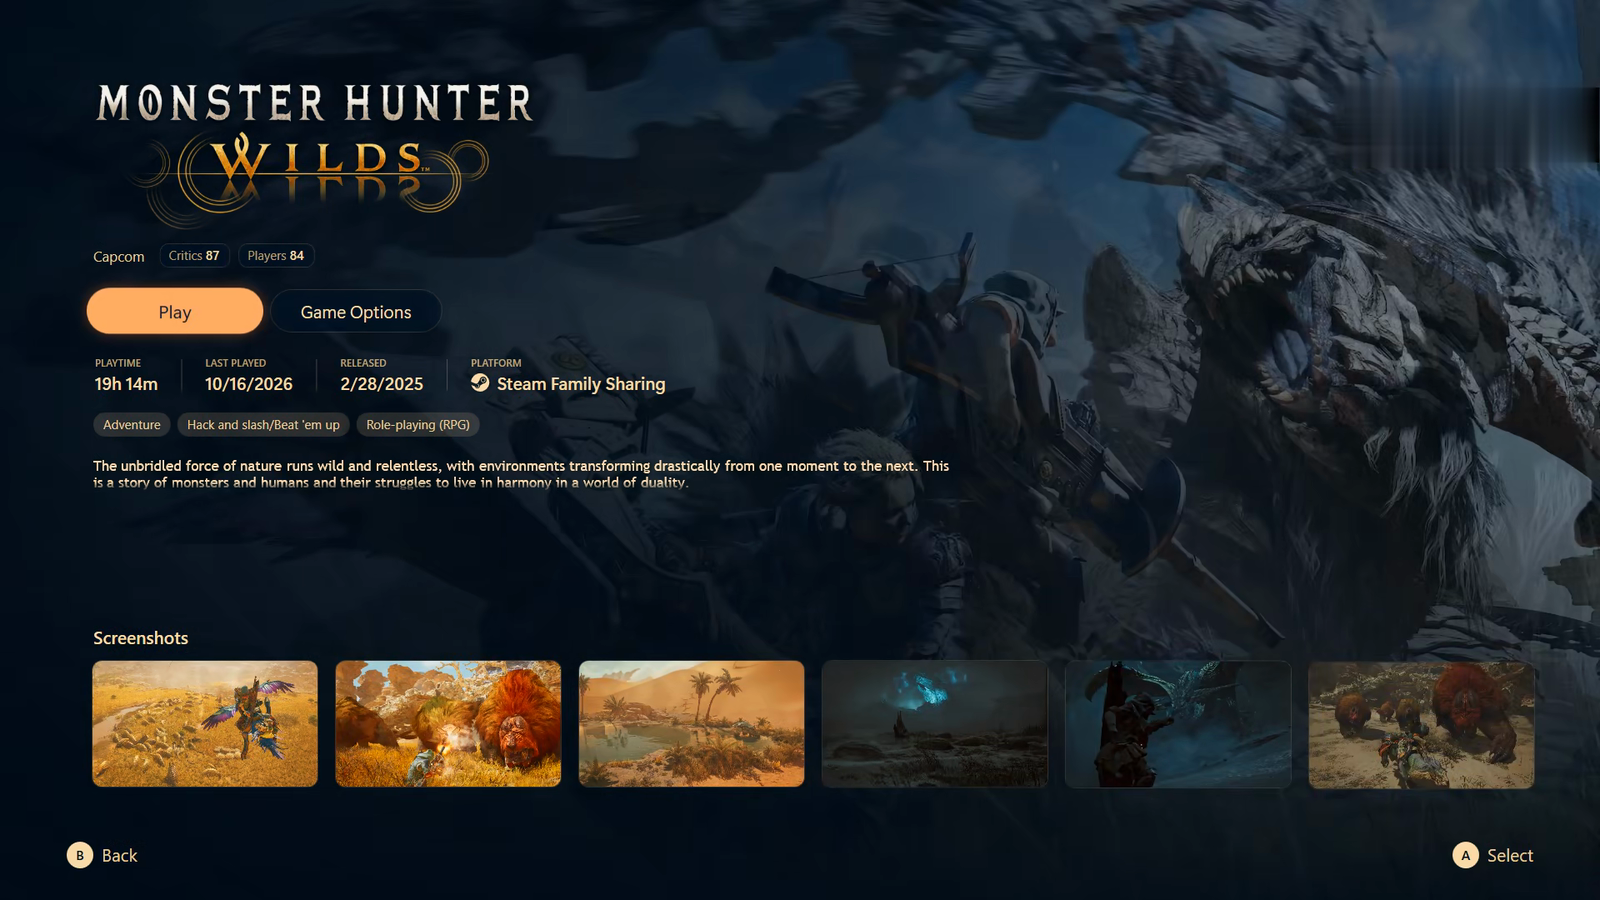
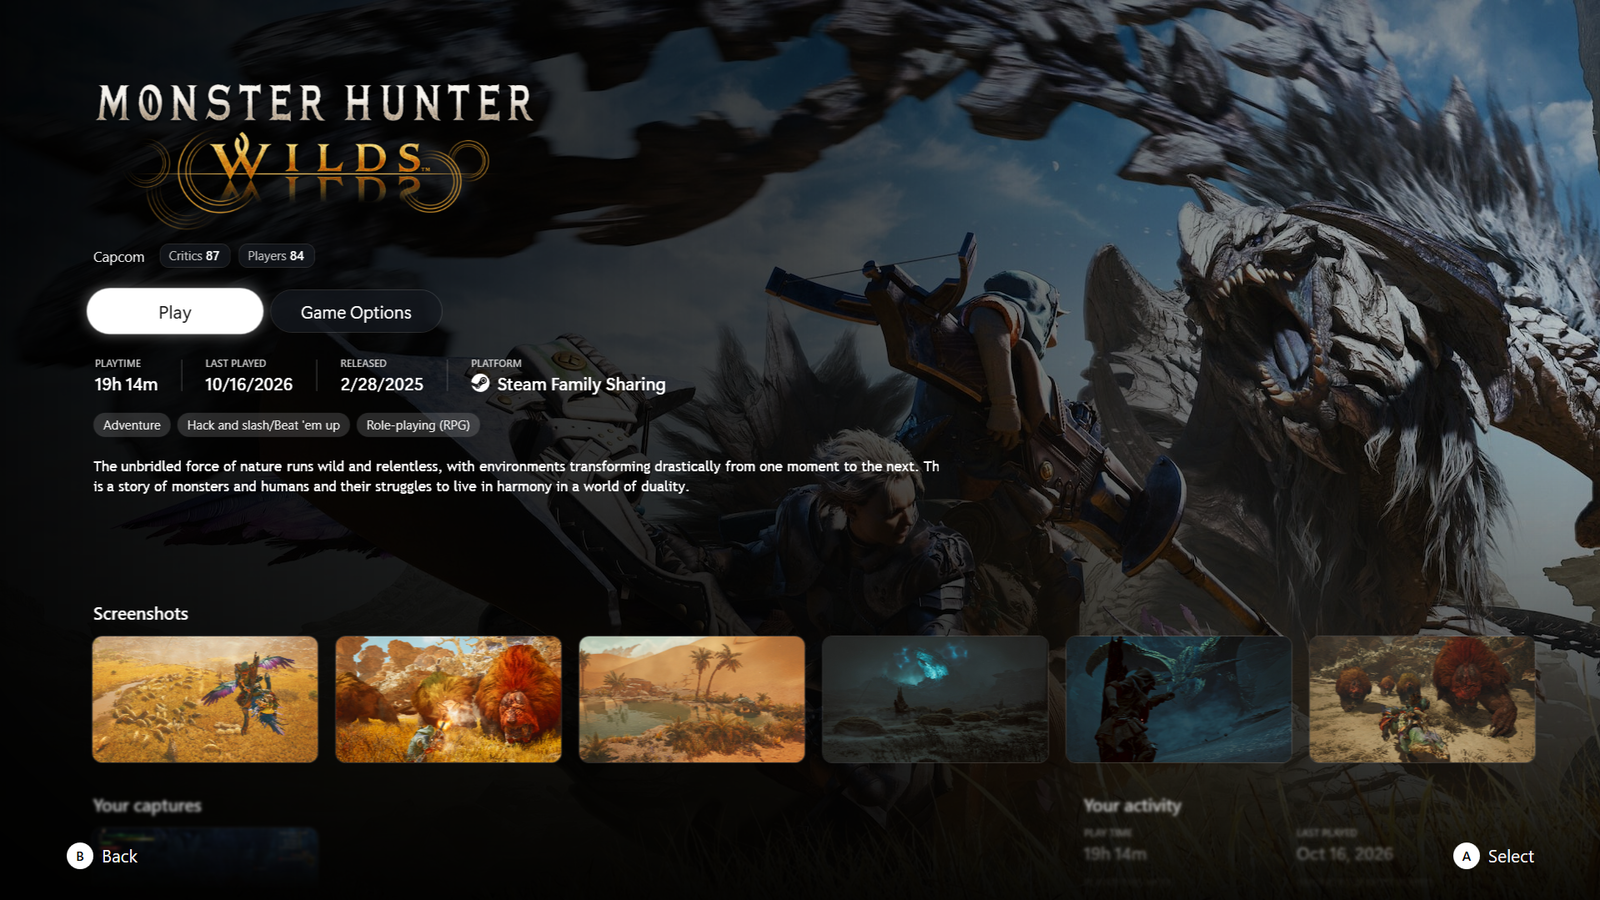
README: Collection, details, store and captures screens from the current build

diff --git a/README.md b/README.md
@@ -47,16 +47,16 @@ Playnite 10 or newer, Windows 10 / 11, a controller recommended. Everything Sele
 
 ## Screens
 
-![Spotlight](docs/screenshots/home.png)
+![Collection](docs/screenshots/library.png)
 
 <table>
   <tr>
-    <td width="50%"><img src="docs/screenshots/who.png" alt="Who's playing?"><p align="center"><sub><b>Who's playing?</b></sub></p></td>
     <td width="50%"><img src="docs/screenshots/details.png" alt="Game details"><p align="center"><sub><b>Details</b></sub></p></td>
+    <td width="50%"><img src="docs/screenshots/store.png" alt="Store"><p align="center"><sub><b>Store</b></sub></p></td>
   </tr>
   <tr>
+    <td width="50%"><img src="docs/screenshots/captures.png" alt="Captures"><p align="center"><sub><b>Captures</b></sub></p></td>
     <td width="50%"><img src="docs/screenshots/activity.png" alt="Activity"><p align="center"><sub><b>Activity</b></sub></p></td>
-    <td width="50%"><img src="docs/screenshots/library.png" alt="Collection"><p align="center"><sub><b>Collection</b></sub></p></td>
   </tr>
 </table>
 

diff --git a/docs/guide/cards.md b/docs/guide/cards.md
@@ -7,6 +7,8 @@ ideas). Down goes into the strip, A opens the picture. Each card has a switch un
 settings; *Pictures under the cards* switches the strips.
 
 ## Captures
+
+![Captures](../screenshots/captures.png)
 Your screenshots and clips, newest first, from Steam, Xbox Game Bar (`Videos\Captures`), the NVIDIA app
 (`Videos\NVIDIA`), `Videos\<game>` folders and any folder you add on Selene Core's add-on page. The grid sits on a dark
 vignette with the focused capture glowing behind it; LB / RB filter to screenshots or clips.
